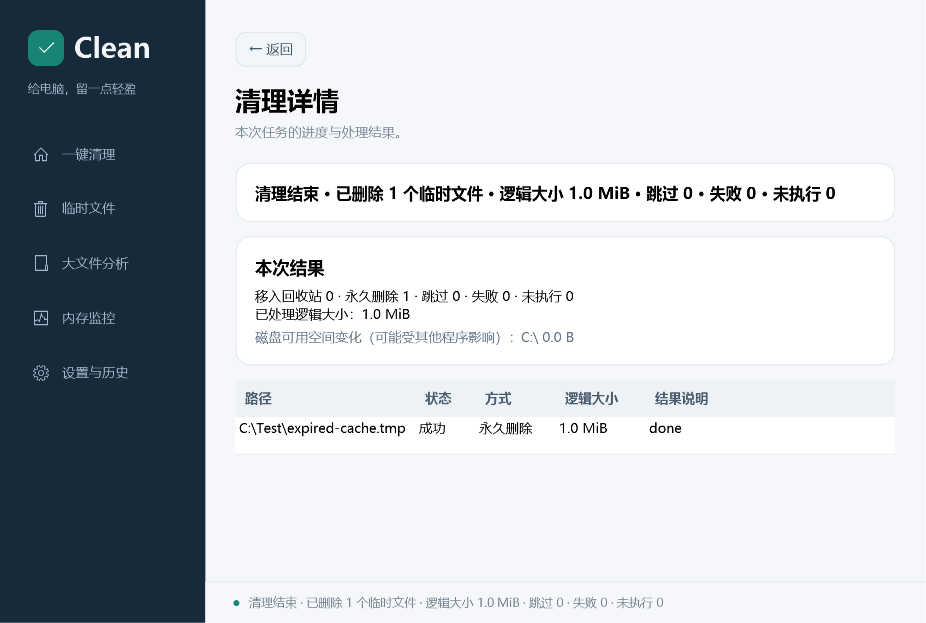
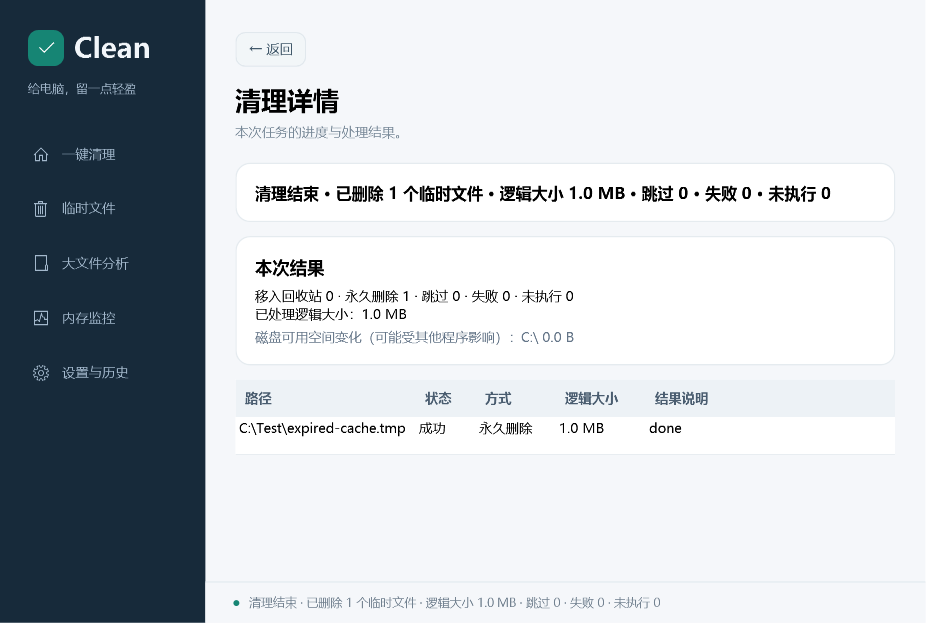
docs: document decimal units and refresh v0.2.3 previews

diff --git a/docs/user-guide.md b/docs/user-guide.md
@@ -3,7 +3,7 @@
 1. 解压自包含 ZIP，在 Windows 11 x64 上启动 `Clean.exe`。无需另装 .NET，不要求管理员权限。未签名包可能显示来源提示，请核对来源和 SHA-256，不关闭系统保护。
 2. 日常清理只需在首页点击“一键清理”：自动扫描当前用户 Temp 并**永久删除至少 7 天未修改的临时文件**，不进入回收站，不再弹窗确认。开始后自动出现“本次清理”卡片，可点“清理详情 →”查看进度和逐项结果。如果设置的年龄大于 7 天，使用设置值。
 3. 在“设置与历史”添加不希望扫描/处理的排除目录并保存。一键清理遵守排除规则，不处理大文件分析结果或清空回收站；扫描阶段取消时不删除任何文件。
-4. 需要自己挑选时使用“临时文件”或“大文件分析”。大文件分析需主动指定本地目录，默认阈值 100 MiB。结果默认不勾选、按大小降序。
+4. 需要自己挑选时使用“临时文件”或“大文件分析”。大文件分析需主动指定本地目录，默认阈值 100 MB。结果默认不勾选、按大小降序。
 5. 手动模式中勾选文件并生成预览，默认移入回收站。手动永久删除仍需切换方式、重新生成预览并单独确认。修改扫描范围或阈值后须重新扫描。
 6. 执行中可以切换页面并停止后续调度。正在执行的 Windows 操作返回后才结束；已完成操作不能回滚。窗口关闭时先取消任务并等待系统操作返回。
 7. 左侧不再放置“清理详情”。它由本次清理卡片或手动预览打开，可查看成功/跳过/失败/未执行及删除方式，点“← 返回”回到来源页。手动任务结束后，可从扫描页的“本次结果”重新打开。逻辑大小不是释放空间；可用空间变化也可能来自其他程序。表格随内容显示，不预留大块白色区域。
@@ -16,3 +16,6 @@
 一次扫描最多保留 100000 个候选、1000 条错误样本，深度上限 128。达到候选上限会显示结果不完整，建议缩小范围。拒绝 UNC、设备路径、重解析点以及 Windows/程序安装/系统数据保护目录。只读、系统或多硬链接文件执行时跳过；不改变权限、不关闭占用程序。
 
 已知限制与验证状态见 test-report.md。回收站使用路径接口，无法消除同用户恶意进程最后瞬间替换叶文件的全部竞态。尚未验证的清空回收站与多 DPI 场景应先在隔离环境验收。
+
+
+容量单位按十进制显示：1 KB = 1000 B，1 MB = 1000 KB，1 GB = 1000 MB。旧版大文件设置自动换算，例如原 100 MiB 显示为 104.8576 MB，实际筛选字节数保持一致。

diff --git a/docs/specs/scanning.md b/docs/specs/scanning.md
@@ -1,9 +1,10 @@
 # 扫描规格（FR-02/03/04/09）
 
-输入：版本化规则（user-temp-v1 / large-files-v1）、根目录、最小年龄/大小、排除目录快照、取消令牌。时间阈值 0～3650 天，默认 7；大文件默认 100 MiB。临时规则根来自系统当前用户 Temp；大文件根必须由用户指定。固定本地卷、普通目录、非保护路径才接受。
+输入：版本化规则（user-temp-v1 / large-files-v1）、根目录、最小年龄/大小、排除目录快照、取消令牌。时间阈值 0～3650 天，默认 7；大文件默认 100 MB。临时规则根来自系统当前用户 Temp；大文件根必须由用户指定。固定本地卷、普通目录、非保护路径才接受。
 
 输出：不可变候选（ID、规范路径、规则 ID/版本、卷和文件 ID、长度、UTC 时间、属性、硬链接数），错误样本、跳过/访问计数、取消与截断标志、开始结束时间。流式深度优先枚举，不读取文件内容，不创建/删除用户文件。所有候选默认不选。
 
 性能：同步流式枚举器存活期间保持整条祖先目录句柄，同一目录的文件快照可复用该持有中的目录身份；递归退出恢复上一层，枚举结束释放上下文。执行阶段不使用扫描缓存，重新获取严格句柄与身份。
 
 路径：只接受完整盘符绝对路径，GetFullPath 消解父目录，OrdinalIgnoreCase 目录边界比较；拒绝 ADS、设备/UNC、尾点/尾空格、通配符、Windows 保留名称。每级检查重解析点并核对句柄最终路径，禁止别名/短名绕过。异常分类包含权限、占用、消失、不可用、其他；目录失败影响该子树，不终止其他树。取消/上限返回已有候选，界面明确不完整。
+

diff --git a/README.md b/README.md
@@ -4,7 +4,7 @@
 
 ![Clean 现代界面布局预览（测试数据）](docs/images/modern-home.png)
 
-**当前为 v0.2.2 预发布开发版本。** 一键清理仅处理当前用户临时目录中至少 7 天未修改的文件，遵循排除目录并逐项复核；不自动处理大文件或回收站。本地功能与自动化验证详见 [测试报告](docs/test-report.md)；尚未完成干净 Windows 虚拟机等正式发布验收，未上传 GitHub。
+**当前为 v0.2.3 预发布开发版本。** 一键清理仅处理当前用户临时目录中至少 7 天未修改的文件，遵循排除目录并逐项复核；不自动处理大文件或回收站。本地功能与自动化验证详见 [测试报告](docs/test-report.md)；尚未完成干净 Windows 虚拟机等正式发布验收，未上传 GitHub。
 
 已实现：
 
@@ -27,8 +27,7 @@ pwsh ./scripts/build.ps1 -Benchmark
 pwsh ./scripts/publish.ps1
 ```
 
-产物在 `artifacts/Clean-0.2.2-win-x64.zip`，校验文件为同名 `.sha256`；可运行目录为 `artifacts/publish/0.2.2/win-x64`。发行包包含 .NET 运行时，所以体积大于应用自身。打包不自动推送或发布。
+产物在 `artifacts/Clean-0.2.3-win-x64.zip`，校验文件为同名 `.sha256`；可运行目录为 `artifacts/publish/0.2.3/win-x64`。发行包包含 .NET 运行时，所以体积大于应用自身。打包不自动推送或发布。
 
 项目分层为 `Clean.Core`（策略/用例）、`Clean.Windows`（系统接口）、`Clean.App`（WPF/MVVM）。规格见 [docs/specs](docs/specs)，需求追踪见 [docs/tasks.md](docs/tasks.md)。贡献和安全报告见 [CONTRIBUTING.md](CONTRIBUTING.md)、[SECURITY.md](SECURITY.md)。
-
 

diff --git a/docs/test-report.md b/docs/test-report.md
@@ -1,5 +1,11 @@
 # Clean 开发验证报告
 
+## v0.2.3 增量验证 — 2026-10-30
+
+`pwsh ./scripts/build.ps1`：Release 0 警告、0 错误；**84 项通过、0 失败**（Core 31 / Windows 20 / App 33），十万文件基准按默认配置跳过。
+
+新增 13 项用例覆盖 B/KB/MB/GB/TB 的十进制边界、负空间变化、100 MB 文件恰好进入筛选而少一字节不进入、旧配置最小/默认/最大阈值的精确迁移与备份恢复、新配置优先级及非法旧值回退。现有 WPF 布局和隔离文件清理测试继续通过。
+
 ## v0.2.1 增量验证 — 2026-10-30
 
 `pwsh ./scripts/build.ps1`：Release 构建 0 警告、0 错误；常规测试 **71 通过、0 失败**（Core 31 / Windows 16 / App 24），十万文件基准按默认配置跳过，本轮未变更扫描和原生删除层。

diff --git a/CHANGELOG.md b/CHANGELOG.md
@@ -1,5 +1,11 @@
 # 更新记录
 
+## 0.2.3 预发布 — 2026-10-30
+
+- 容量统一显示为 KB、MB、GB、TB，按 1000 进位；磁盘、内存、清理结果及确认对话框使用同一换算方式。
+- 大文件阈值改为十进制 MB，默认 100 MB；旧版 MiB 设置自动换算并精确保留原字节阈值，备份恢复同样兼容。
+- 新增单位边界、负空间变化、大文件筛选边界与配置迁移验证，84 项常规测试通过。
+
 ## 0.2.2 预发布 — 2026-10-30
 
 - 窗口标题简化为 Clean，移除标题栏中的“一键清理”。
